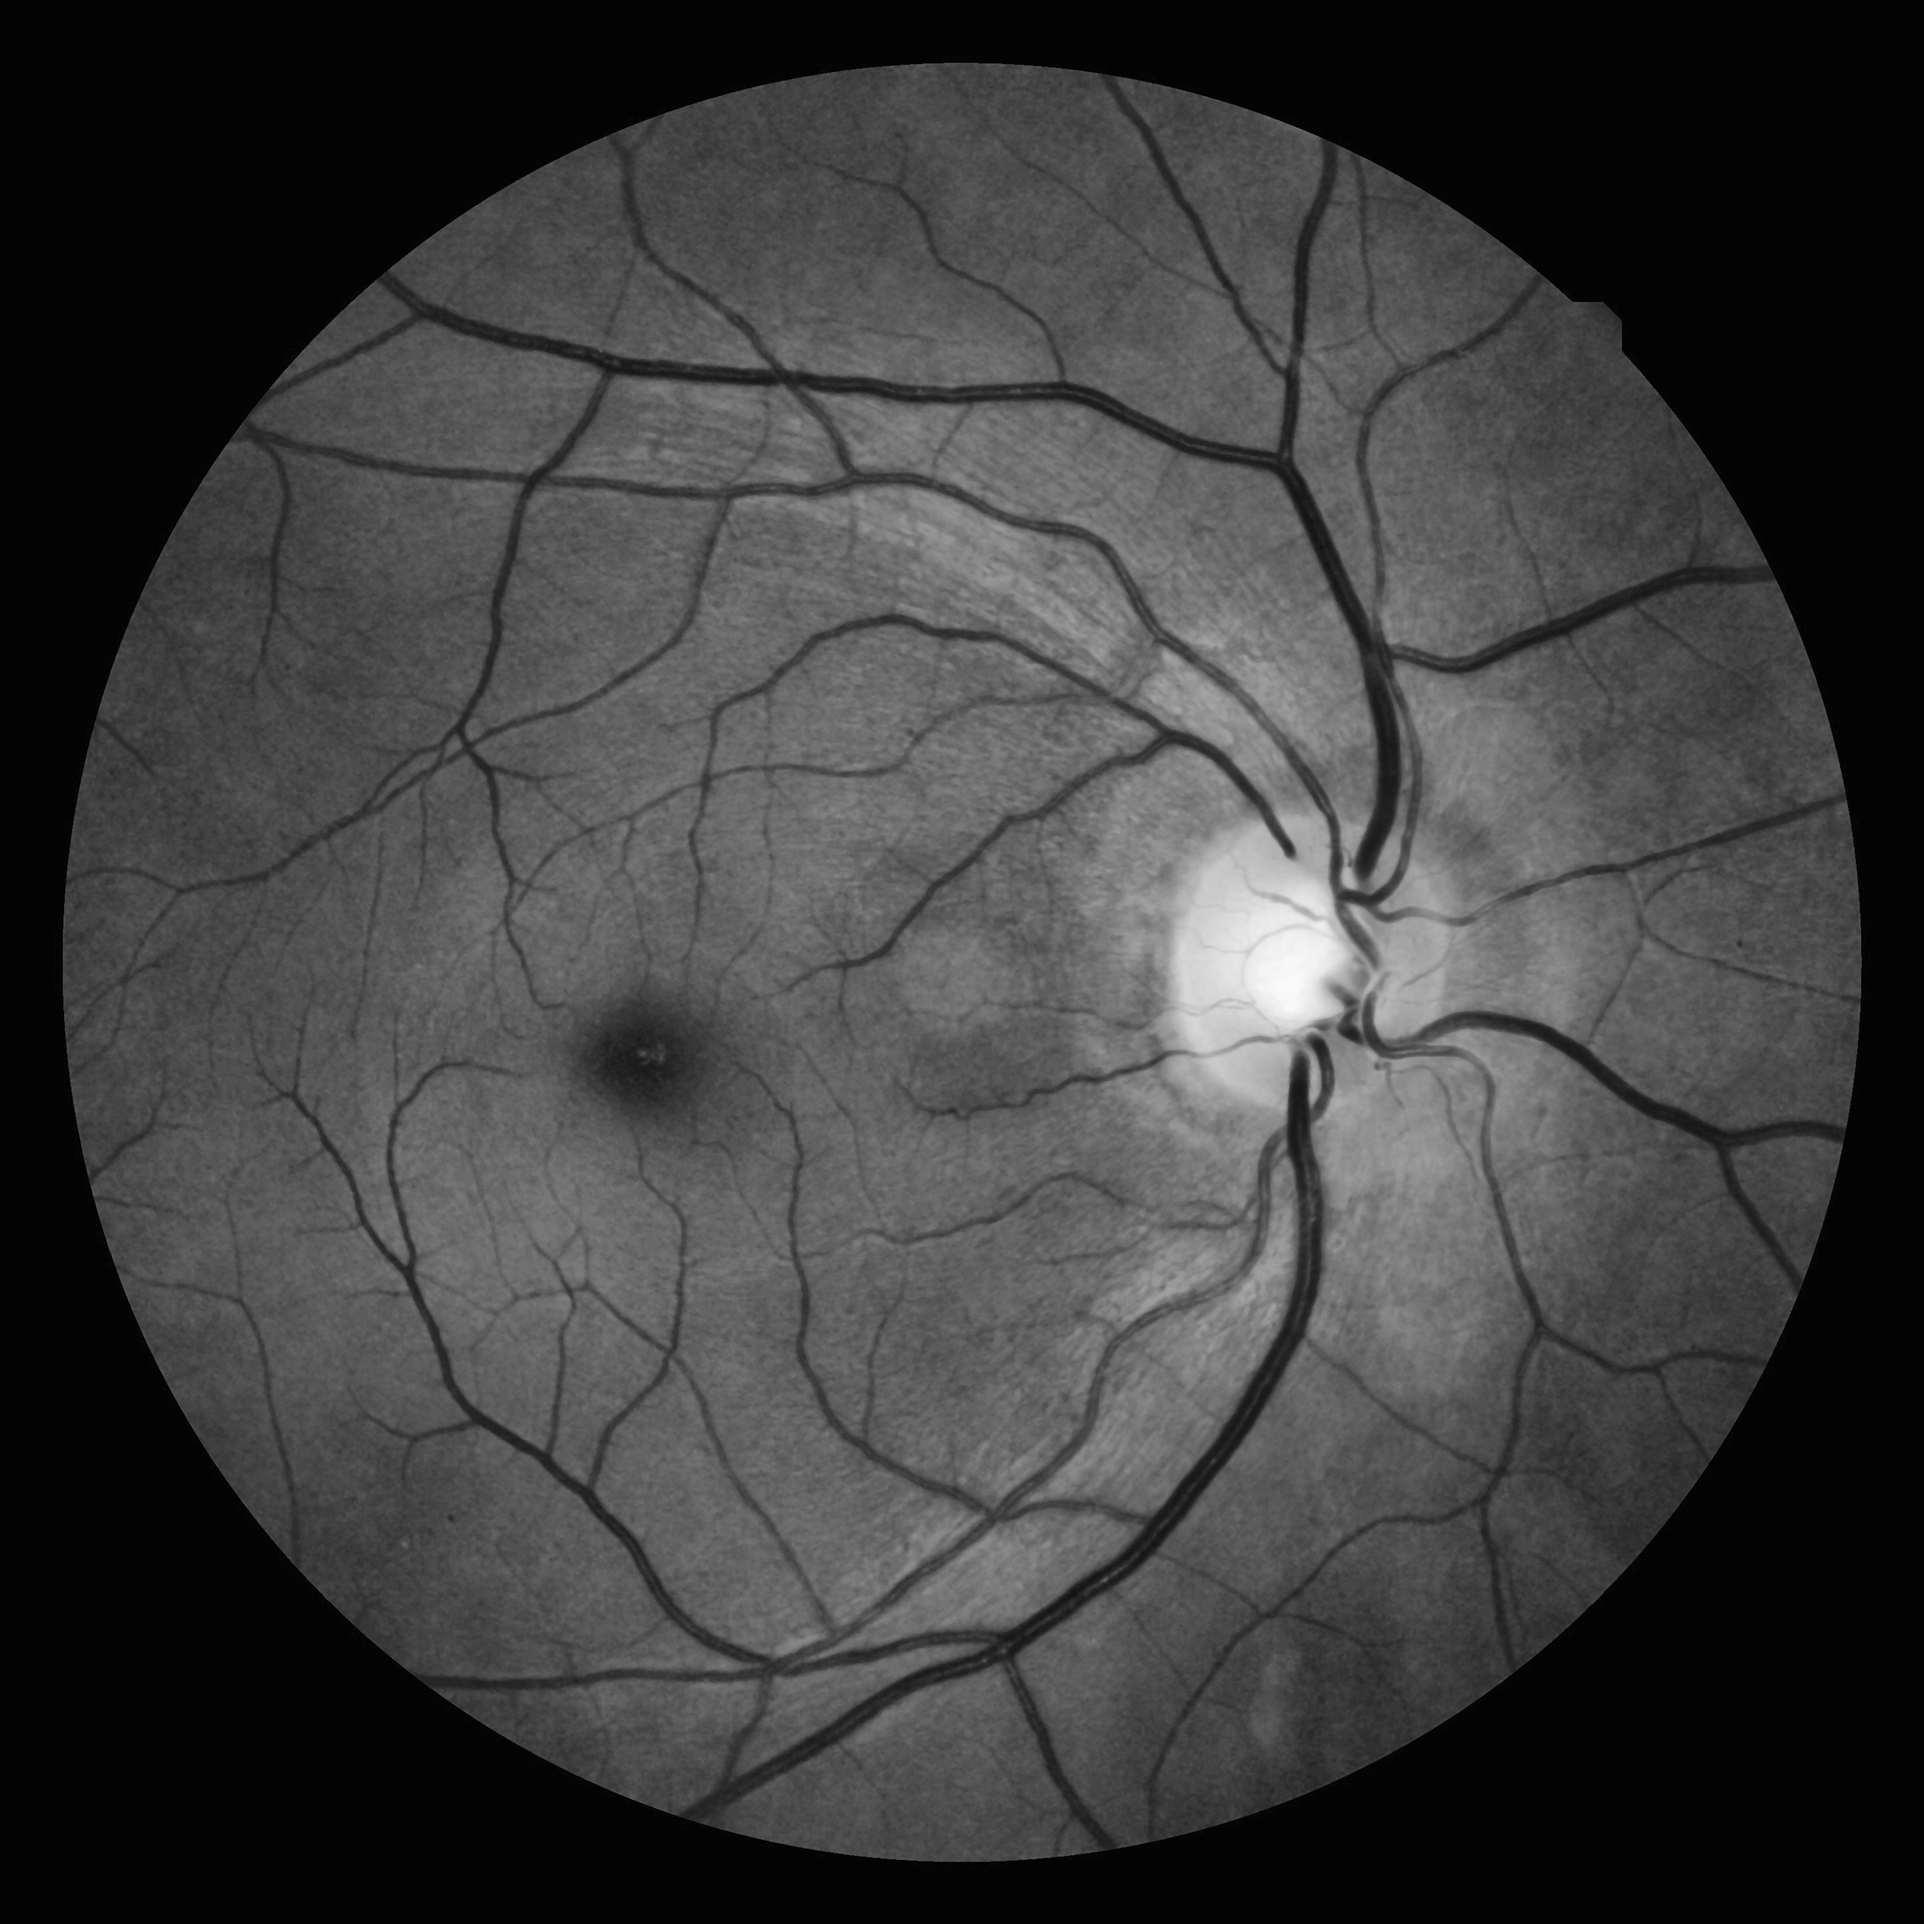
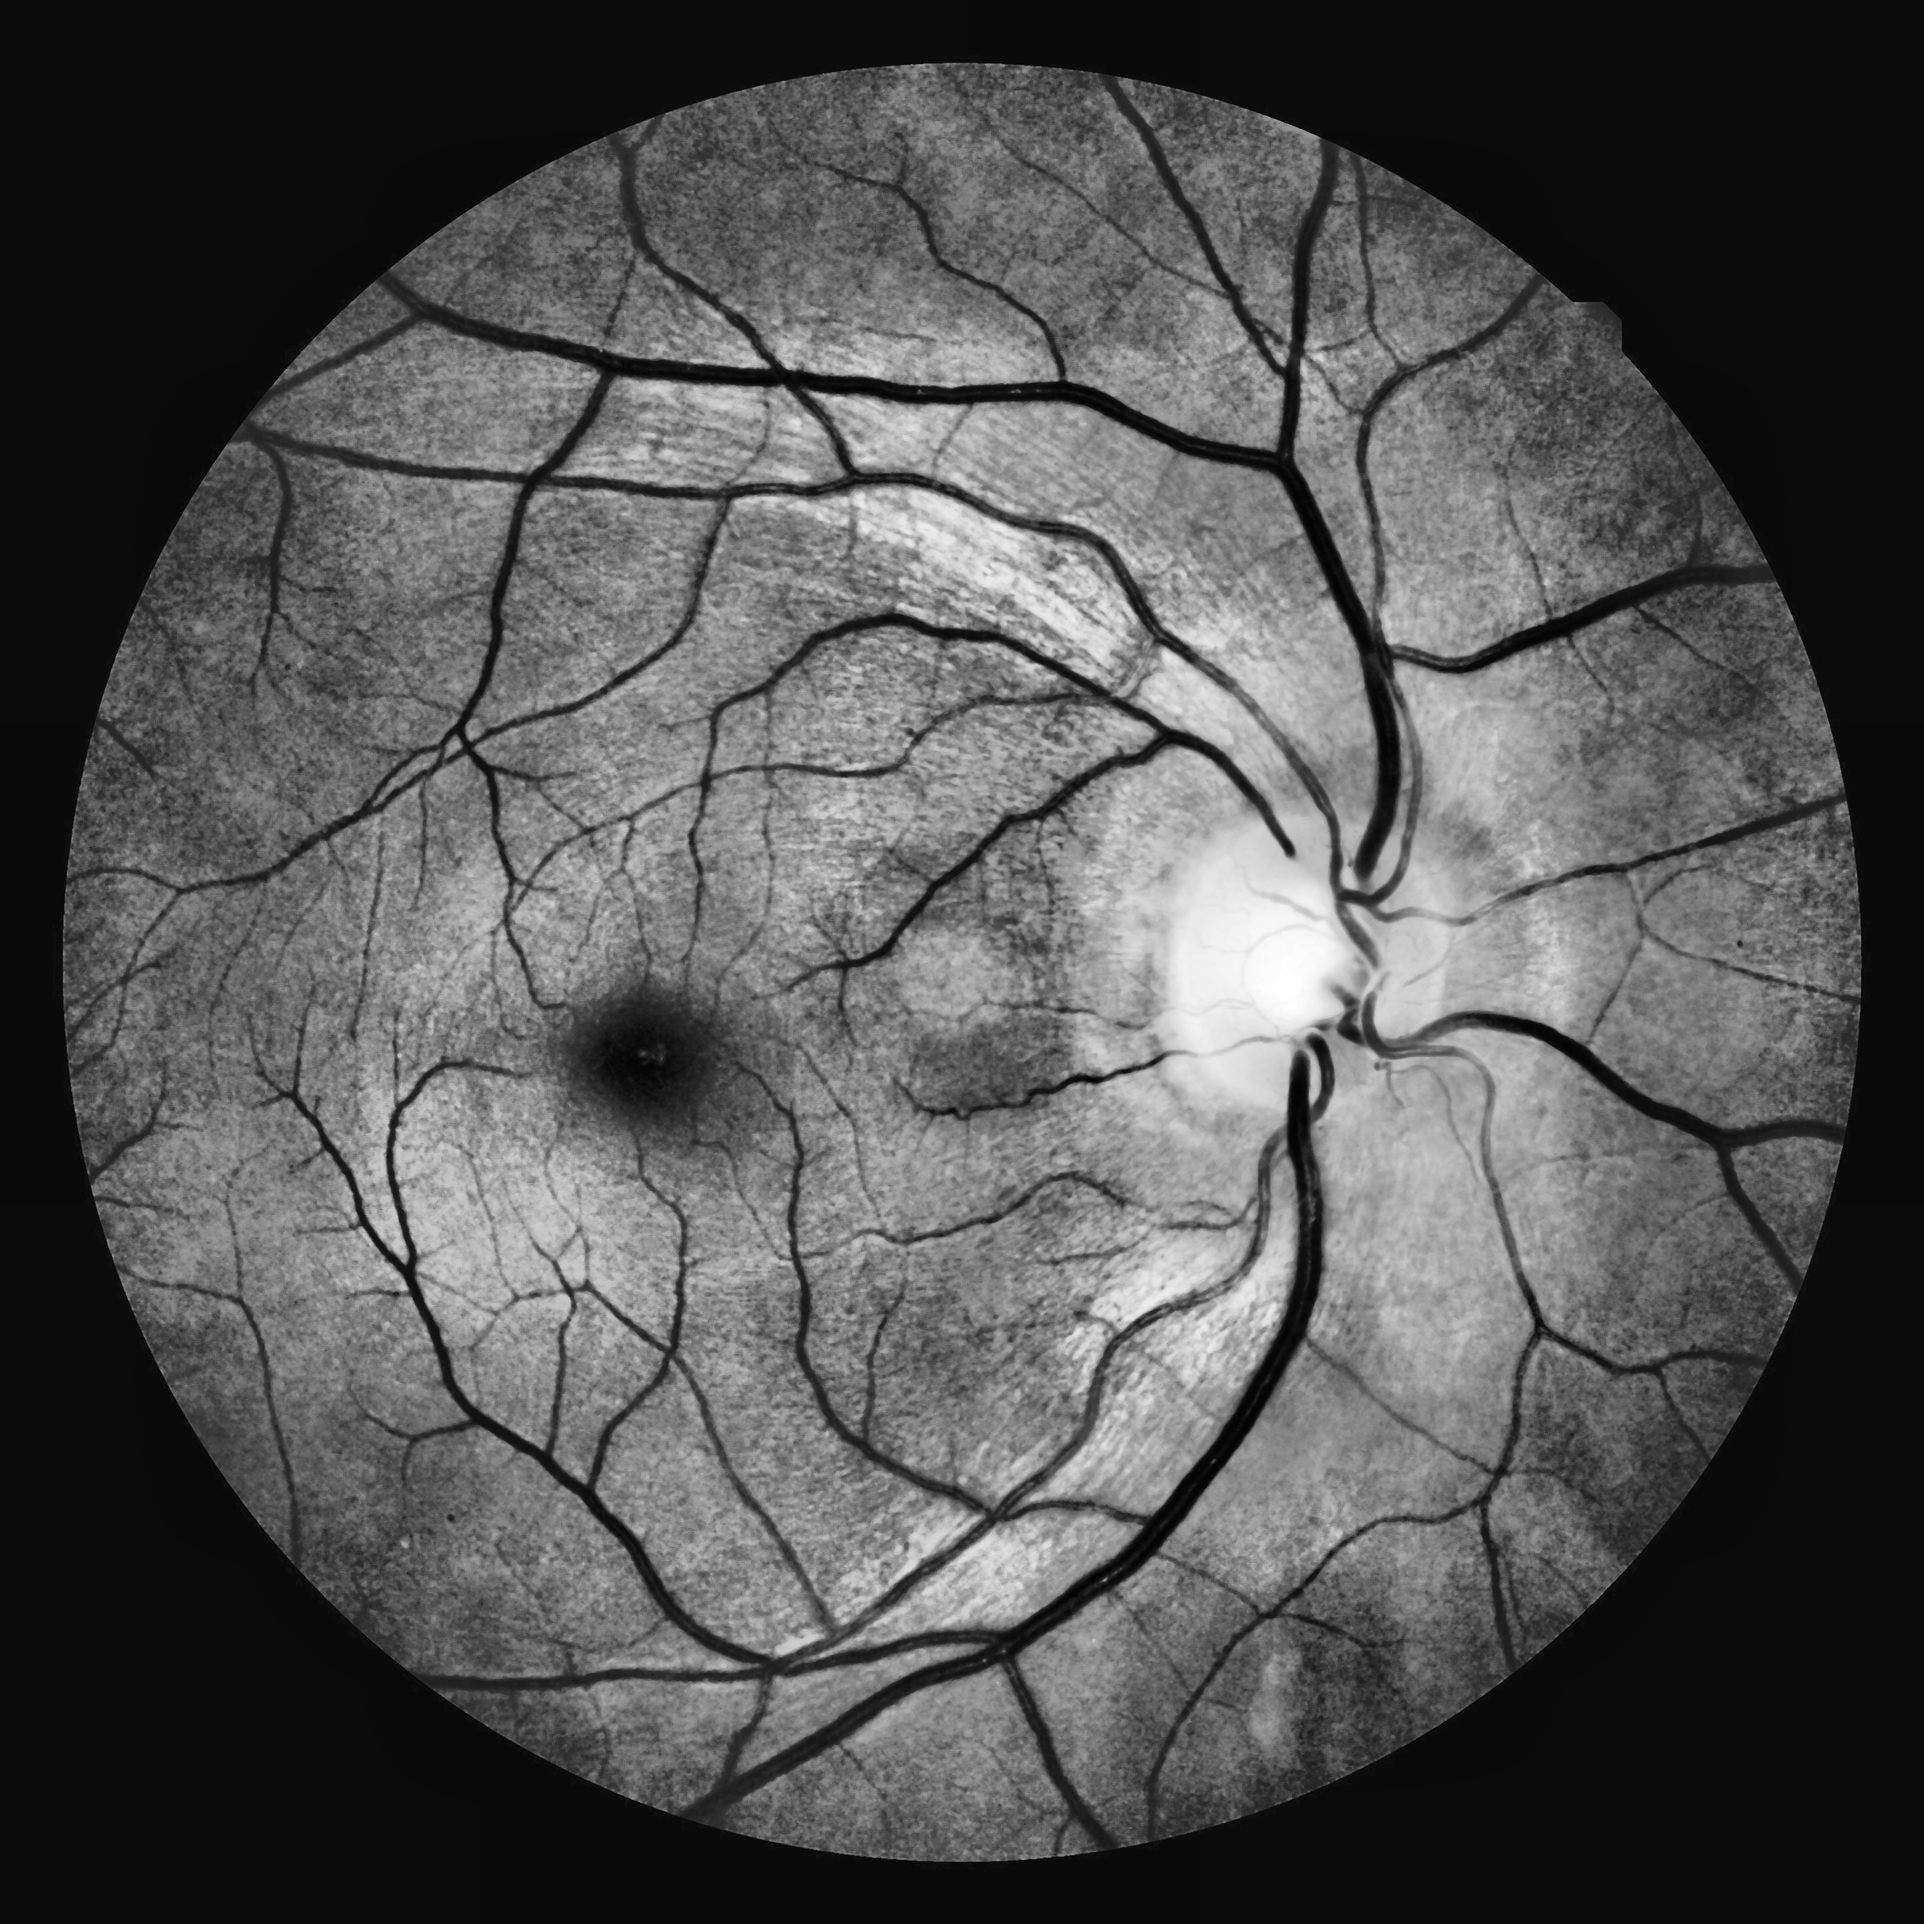
23 can kind of stitch together

diff --git a/ImageStitching/scripts/registration.py b/ImageStitching/scripts/registration.py
@@ -5,6 +5,9 @@
 # //  Created by chelsea maramot on 2025-01-24.
 # //
 
+#Good unused src: https://kushalvyas.github.io/stitching.html
+
+
 '''
 Consists of incremental search, offset calculation, MODE matching and multi-sequence image fusion.
 1.) Extract feature points and match by incremental search
@@ -14,8 +17,10 @@ Consists of incremental search, offset calculation, MODE matching and multi-sequ
 '''
 
 import cv2
+import numpy as np
 from collections import Counter
-
+import os
+import matplotlib.pyplot as plt
 
 # feature extraction using SURF (Speeded-Up Robust Features)
 # https://www.youtube.com/watch?v=PBTrwymDVCg
@@ -23,13 +28,14 @@ from collections import Counter
 # returns keypoints and descriptors. 
 # keypoints are the points of interest in the image
 # descriptors are the vectors that describe the keypoints. these contain encoded info about the appearance of pixels around that keypoint
-def SURF(image, threshold=400):
+def SURF(image, threshold=300):
     surf = cv2.xfeatures2d.SURF_create(threshold)
     kp, des = surf.detectAndCompute(image, None)
 
     return kp, des
 
 
+# https://docs.opencv.org/4.x/dc/dc3/tutorial_py_matcher.html
 def match_features(des1, des2, threshold=0.7):
     index_params = dict(algorithm=1, trees=5)
     search_params = dict(checks=50)
@@ -38,22 +44,35 @@ def match_features(des1, des2, threshold=0.7):
     matches = flann.knnMatch(des1, des2, k=2)
 
     good_matches = []
+    for i,(m, n) in enumerate(matches):
+        if m.distance < threshold * n.distance:
+            good_matches.append(m)
+
+    return good_matches
+
+
+
+def match_features_bf(des1, des2, threshold=0.7):
+   
+    bf = cv2.BFMatcher(cv2.NORM_L2, crossCheck=True)
+    matches = bf.knnMatch(des1, des2, k=2)
+
+    good_matches = []
     for m, n in matches:
         if m.distance < threshold * n.distance:
             good_matches.append(m)
-    
-    return good_matches
 
+    return good_matches
 
 
 def calculate_offset(h,w, x1, y1, x2, y2, mode='horizontal'):
 
     if mode == 'horizontal':
-        dx = w - x1 + x2
+        dx = x1 + x2
         dy = y1 - y2
     elif mode == 'vertical':
         dx = x1 - x2
-        dy = h - y1 + y2
+        dy = y1 + y2
     else:
         raise ValueError("Mode must be 'horizontal' or 'vertical'")
     
@@ -79,7 +98,7 @@ def incremental_search(image1, image2, initial_orientation, feature_search_lengt
     dx_list = []
     dy_list = []
 
-    while search_length < max_search_length:
+    while search_length <= max_search_length:
 
         # get search regions
         if initial_orientation == 1: #image 2 below image 1
@@ -103,12 +122,18 @@ def incremental_search(image1, image2, initial_orientation, feature_search_lengt
 
         matches = match_features(des1, des2)
 
-        if len(matches) > 10:
+        if len(matches) > 15:
+            print("Orientation", initial_orientation)
             print("Matches found: ", len(matches))
             matched_image = cv2.drawMatches(image1, kp1, image2, kp2, matches, None, flags=cv2.DrawMatchesFlags_NOT_DRAW_SINGLE_POINTS)
             matched_image = cv2.resize(matched_image, (960, 540)) 
-            cv2.imshow("Matched Features", matched_image)
-            cv2.waitKey(0)
+
+
+            output_path = os.path.join('./data/', 'matched_img.jpg')
+            os.makedirs(os.path.dirname(output_path), exist_ok=True)
+            cv2.imwrite(output_path, matched_image)
+            #cv2.imshow("Matched Features", matched_image)
+            #cv2.waitKey(0)
 
             for match in matches:
                 pt1 = kp1[match.queryIdx].pt  # (x1, y1) in img1
@@ -133,3 +158,64 @@ def incremental_search(image1, image2, initial_orientation, feature_search_lengt
 
   
     return get_mode(dx_list), get_mode(dy_list)
+
+
+def ignore_black_bg(image):
+    mask = cv2.cvtColor(image, cv2.COLOR_BGR2GRAY) > 0
+    rgba_image = cv2.cvtColor(image, cv2.COLOR_BGR2BGRA) 
+    rgba_image[:, :, 3] = np.uint8(mask * 255)
+
+    return rgba_image
+
+def stitch_image(image1, image2, offset):
+
+    image1 = ignore_black_bg(image1)
+    image2 = ignore_black_bg(image2)
+
+    h1, w1 = image1.shape[:2]
+    h2, w2 = image2.shape[:2]
+
+    dx, dy = offset
+
+    stitched_height = 4*max(h1,h2)
+    stitched_width = 4*max(w1,w2)
+
+    print("stitched_height: ", stitched_height)
+    print("stitched_width: ", stitched_width)
+
+    #canvas
+    stitched_image = np.zeros((stitched_height, stitched_width, 4), dtype=image1.dtype)
+
+
+    print("h1, w1: ", h1, w1)
+    print("h2, w2: ", h2, w2)
+    print("dx, dy: ", dx, dy)
+
+    # Calculate the position to place the first image in the middle of the canvas
+    y_center = (stitched_height - h1) // 2
+    x_center = (stitched_width - w1) // 2
+
+    stitched_image[y_center:y_center + h1, x_center:x_center + w1] = image1
+
+    print("start y: ", y_center+dy)
+    print("end y: ", y_center+dy+h2)  
+    print("start x: ", x_center+dx)
+    print("end x: ", x_center+dx+w2)
+
+    non_transparent_mask = image2[:, :, 3] != 0  # Non-transparent pixels in image2
+
+    image2_rgba = np.dstack((image2[:, :, :3], image2[:, :, 3]))
+
+    # Use the mask to place non-transparent pixels from image2 onto the stitched_image
+    stitched_image[y_center + dy:y_center + dy + h2, x_center + dx:x_center + dx + w2][non_transparent_mask] = image2_rgba[:, :, :][non_transparent_mask]
+
+
+    
+    #cv2.imshow("Stitched Image", stitched_image)
+    output_path = os.path.join('./data/', 'stitched_img.jpg')
+    os.makedirs(os.path.dirname(output_path), exist_ok=True)
+    cv2.imwrite(output_path, stitched_image)
+
+    #cv2.waitKey(0)
+
+    return stitched_image

diff --git a/ImageStitching/scripts/main.py b/ImageStitching/scripts/main.py
@@ -10,7 +10,7 @@ import os
 
 
 from preprocess import extract_green_channel, preprocess_retinal_image
-from registration import incremental_search
+from registration import incremental_search, stitch_image
 
 def main():
     input_path= './data/input'
@@ -29,11 +29,21 @@ def main():
         cv2.imwrite(os.path.join(output_path, img), preprocessed_image)
 
     
-    image1 = cv2.imread(os.path.join(output_path, input_images[0]))
-    image2 = cv2.imread(os.path.join(output_path, input_images[1]))
+    output_image1 = cv2.imread(os.path.join(output_path, input_images[0]))
+    output_image2 = cv2.imread(os.path.join(output_path, input_images[1]))
+    
+    input_image1 = cv2.imread(os.path.join(input_path, input_images[0])) 
+    input_image2 = cv2.imread(os.path.join(input_path, input_images[1]))
 
-    offset = incremental_search(image1, image2, initial_orientation=2, feature_search_length=0.2, threshold=0.6)
+
+
+    offset = incremental_search(output_image1, output_image2, initial_orientation=2, feature_search_length=0.2, threshold=0.6)
     print("Offset: ", offset)
+
+    if offset:
+        stitch_image(input_image1, input_image2, offset)
+    else:
+        print("Cannot stitch images together")
 
     
 

diff --git a/ImageStitching/scripts/preprocess.py b/ImageStitching/scripts/preprocess.py
@@ -31,7 +31,7 @@ def extract_green_channel(image):
 # CLAHE improves the contrast of images. Histogram equalization is applied to small regions of the image, as opposed to the entire image.
 # clipLimit: Threshold for contrast limiting. Default of 40
 # tileGridSize: Size of grid for histogram equalization.  Sets # of tiles in row and column. Default of 8x8.
-def CLAHE(image, clipLimit=2.0, tileGridSize=(8,8)):
+def CLAHE(image, clipLimit=10, tileGridSize=(8,8)):
     clahe = cv2.createCLAHE(clipLimit, tileGridSize)
     final_image = clahe.apply(image)
 

diff --git a/ImageStitching/scripts/fusion.py b/ImageStitching/scripts/fusion.py
@@ -5,3 +5,7 @@
 # //  Created by chelsea maramot on 2025-01-24.
 # //
 
+
+# Maximum value algorithm will be used to fuse two overlapping areas in order to remove suture line.
+
+
